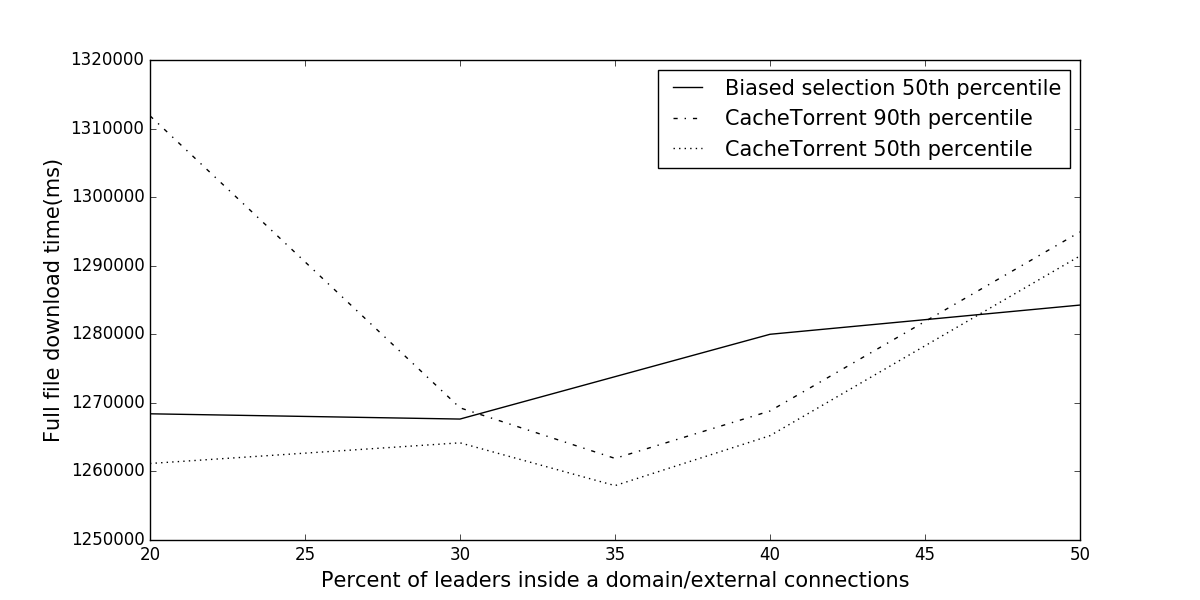
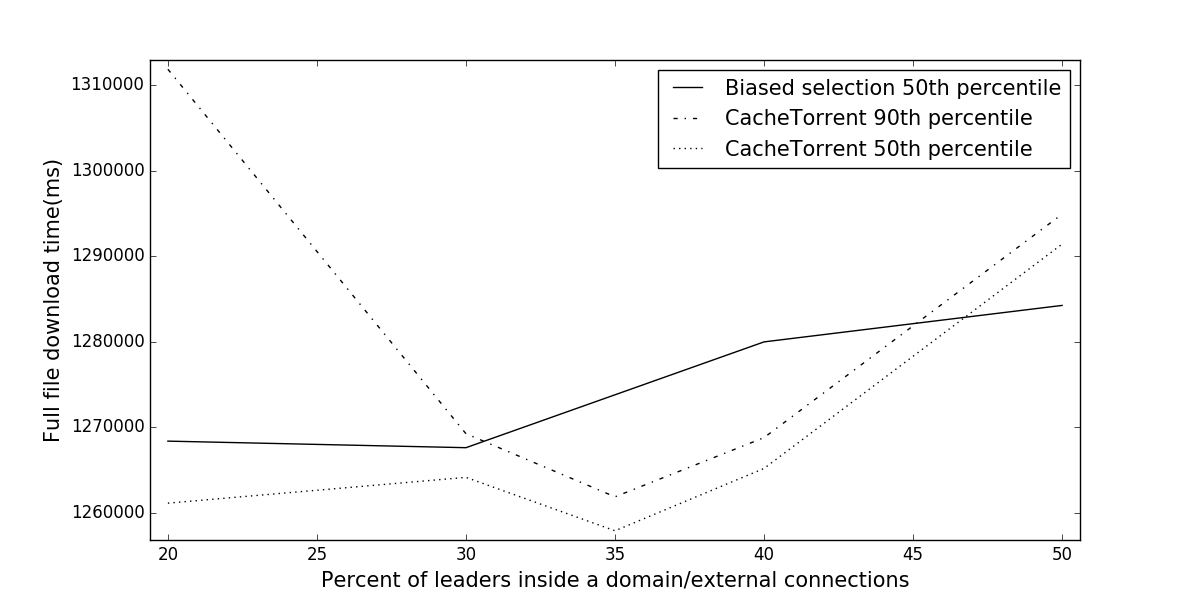
Updated plots. There was an error at collecting redundancy results.

diff --git a/misc/plots.py b/misc/plots.py
@@ -8,16 +8,23 @@ red_bit = [46.89975] * 5
 
 cac90 = [2795154.6, 2264567.0, 2075675.0, 1900072.0, 1764484.2]
 cac50 = [2088354.6, 1712567.0, 1631675.0, 1545172.0, 1421284.2]
+cacavg = [2174415.2, 1754970.4, 1633130.4, 1575467.7, 1506736.4]
 red_cac = [4.369384835479256, 9.310080011430205, 14.231714285714286, 19.28725882460992, 24.299842857142856]
 
 scac90  = [2465663.4, 1943782.8, 1718132.6, 1497803.8, 1383119.8]
 scac50  = [1789485.6, 1382782.8, 1254632.6, 1183403.8, 1112819.8]
-scacavg = [2174415.2, 1754970.4, 1633130.4, 1575467.7, 1506736.4]
+scacavg = [1822004.1, 1377073.8, 1228353.1, 1145023.0, 1127055.5]
 red_scac = [4.135685973400614, 7.3762265684246815, 9.225472757071612, 10.801587820403821, 13.72113847664711]
+
+sbia90  = [1283063.8, 1260930.5, 1252211.6, 1244652.5, 1244943.6]
+sbia50  = [1264162.0, 1243663.7, 1235390.8, 1227402.5, 1227938.0]
+sbiaavg = [1243139.3, 1224210.7, 1215837.3, 1209452.0, 1209937.8]
+red_sbia = [11.08978937342432, 13.988364442537366, 14.439521789585445, 15.932816840853652, 17.56879524217716]
 
 sbit90  = [1413451.2] * 5
 sbit50  = [1406051.2] * 5
 sbitavg = [1404587.0] * 5
+red_sbit = [46.32947142857143] * 5
 
 acac90 = [1311858.6, 1269271.8, 1261899.4, 1268813.4, 1294926.0]
 acac50 = [1261158.6, 1264171.8, 1257930.6, 1265213.4, 1291426.0]
@@ -34,6 +41,7 @@ pic50 = [2329785.6, 1880715.6, 1461679.8, 1428877.2, 1408510.0]
 from plot import *
 
 plots = [
+	# Intro
 	TimePlot(type="Bias")
 		.plot(idx, bia90, color='black', linestyle='-', label="Biased selection 90th percentile")
 		.plot(idx, bia50, color='black', linestyle='--', label="Biased selection 50th percentile")
@@ -50,9 +58,11 @@ plots = [
 		.plot(idx, red_cac, color='black', linestyle='-', label="CacheTorrent")
 		.save("plots/red.png"),
 	TimePlot(type="Cache")
-		.plot(idx, scacavg, color='black', linestyle='-', label="CacheTorrent average")
+		.plot(idx, cacavg, color='black', linestyle='-', label="CacheTorrent average")
 		.plot(idx, cac50, color='black', linestyle='--', label="CacheTorrent 50th percentile")
 		.save("plots/cactime2.png"),
+
+	# Big seed
 	TimePlot(type="Cache")
 		.plot(idx, scac90, color='black', linestyle='-', label="CacheTorrent 90th percentile - 8Mbps seed")
 		.plot(idx, scac50, color='black', linestyle=':', label="CacheTorrent 50th percentile - 8Mbps seed")
@@ -63,6 +73,26 @@ plots = [
 		.plot(idx, red_scac, color='black', linestyle='-', label="CacheTorrent - 8Mbps seed")
 		.plot(idx, red_cac, color='black', linestyle='--', label="CacheTorrent - 2Mbps seed")
 		.save("plots/scacred.png"),
+
+	# Biased
+	TimePlot(type="Both")
+		.plot(idx, scac50, color='black', linestyle='-', label="CacheTorrent 50th percentile")
+		.plot(idx, sbia50, color='black', linestyle='--', label="Biased selection 50th percentile")
+		.plot(idx, sbit50, color='black', linestyle=':', label="BitTorrent 50th percentile")
+		.save("plots/biaCache.png"),
+	TimePlot(type="Both")
+		.plot(idx, scac90, color='black', linestyle='-', label="CacheTorrent 90th percentile")
+		.plot(idx, sbia90, color='black', linestyle='--', label="Biased selection 90th percentile")
+		.plot(idx, sbit90, color='black', linestyle=':', label="BitTorrent 90th percentile")
+		.save("plots/biaCache90.png"),
+	RedPlot(type="Both")
+		.plot(idx, red_scac, color='black', linestyle='-', label="CacheTorrent")
+		.plot(idx, red_sbia, color='black', linestyle='--', label="Biased selection")
+		.plot(idx, red_sbit, color='black', linestyle=':', label="BitTorrent")
+		.setLoc(1)
+		.save("plots/cacred.png"),
+
+	# Hetero
 	TimePlot(type="Both")
 		.plot(idx[1:], abia50, color='black', linestyle='-', label="Biased selection 50th percentile")
 		.plot([20, 30, 35, 40, 50], acac90, color='black', linestyle='-.', label="CacheTorrent 90th percentile")
@@ -72,6 +102,8 @@ plots = [
 		.plot(idx, red_bia, color='black', linestyle='--', label="Biased selection")
 		.plot(idx, red_cac, color='black', linestyle='-', label="CacheTorrent")
 		.save("plots/biaCacheAsymRed.png"),
+
+	# Pieces
 	PiecePlot()
 		.plot([i * 20 for i in idx], pic50, color='black', linestyle='-', label="50th percentile")
 		.plot([i * 20 for i in idx], pic90, color='black', linestyle='--', label="90th percentile")

diff --git a/misc/plot.py b/misc/plot.py
@@ -19,6 +19,8 @@ def setup(plt):
     plt.rcParams['axes.linewidth'] = 1
     plt.rcParams['lines.markeredgewidth'] = 1
 
+    plt.margins(0.02, 0.02)
+
 class Plot():
     def __init__(self):
         self.plt = plt
@@ -80,6 +82,10 @@ class RedPlot(Plot):
         self.ylabel("Redundant transmissions")
         self.loc = 4
         types[type](self)
+
+    def setLoc(self, loc):
+        self.loc = loc
+        return self
 
 class PiecePlot(Plot):
     def __init__(self):
